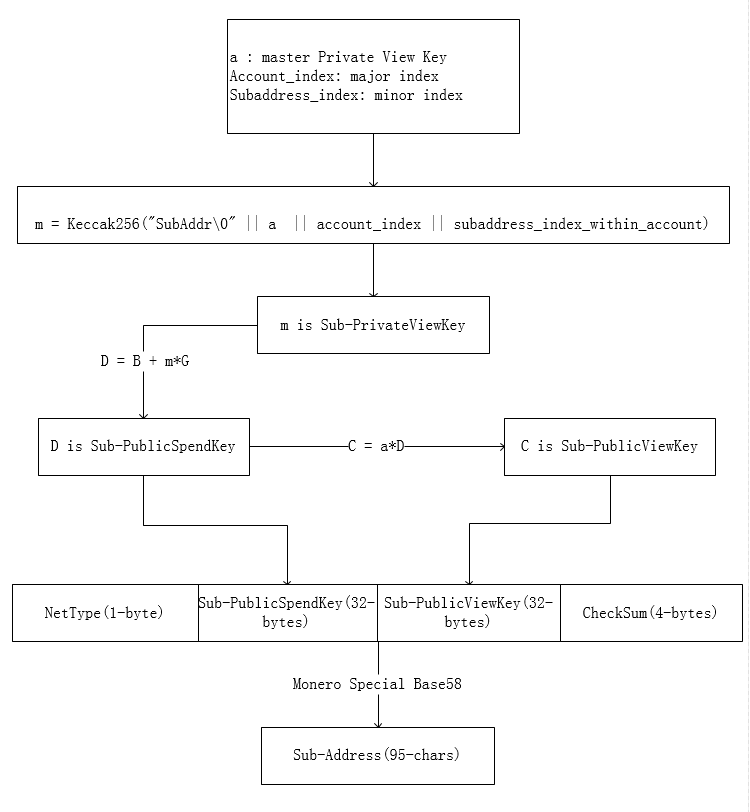
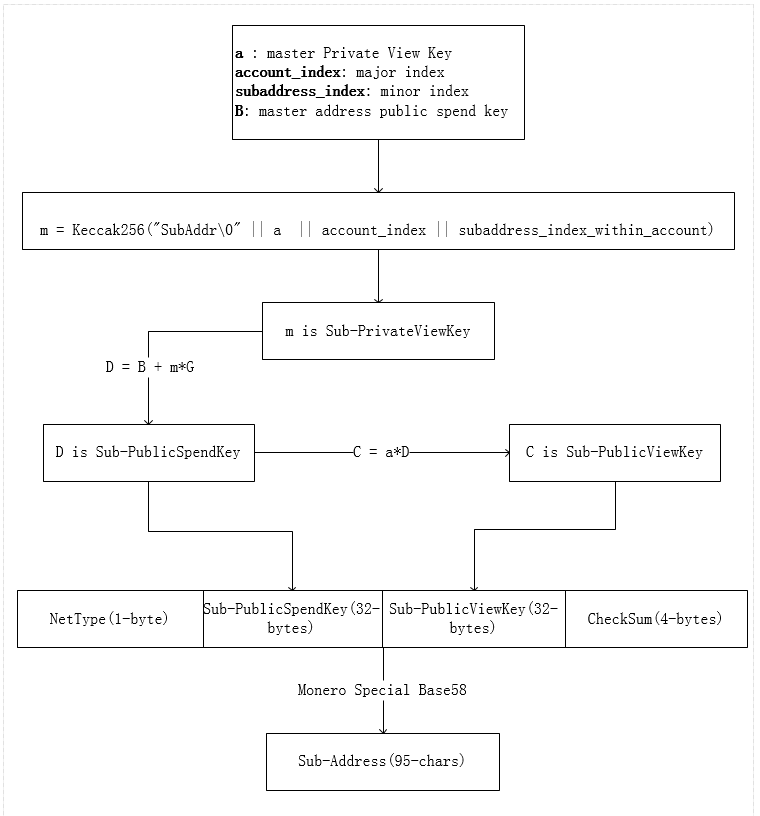
添加 XMR 交易所对接方案

diff --git a/Monero/6_XMR交易所对接方案.md b/Monero/6_XMR交易所对接方案.md
@@ -1,0 +1,195 @@
+# 交易所对接 XMR 
+
+
+
+## 充币
+
+### 用户充币地址生成
+
+使用 subaddress 即可
+
+
+
+### 充币数据监测
+
+> monero-wallet-rpc 的API文档:   https://web.getmonero.org/resources/developer-guides/wallet-rpc.html
+
+
+
+ **步骤1** :   使用  `monero-wallet-cli`  的以下选项生成 `incoming-only`钱包:
+
+```
+--generate-from-view-key arg   //Generate incoming-only wallet from view key
+```
+
+
+
+观察钱包生成过程
+
+```
+monero-wallet-cli --stagenet  --daemon-address monero-stagenet.exan.tech:38081  --trusted-daemon --generate-from-view-key=/root/.bitmonero/stagenet/wallet_files/yqq_incoming_only  --restore-height 536084  
+```
+
+
+
+![](./img/generate_incoming_only_wallet.png)
+
+
+
+
+
+**步骤2**: 使用 `monero-wallet-rpc` 导入上一步生成的`Private View Key` 作为 `incoming-only` 钱包.   这样就可以RPC接口获取钱包的入账数据.
+
+- 启动  monero-wallet-rpc  ,  注意端口不要学wiki页面中把端口设置为  `18082`(主网) 或 `38082`(测试网)(默认是ZMQ的RPC端口)
+
+  ```
+  monero-wallet-rpc --stagenet --daemon-address  monero-stagenet.exan.tech:38081 --trusted-daemon --wallet-file=/root/.bitmonero/stagenet/wallet_files/yqq_incoming_only --confirm-external-bind --rpc-bind-ip 0.0.0.0 --rpc-bind-port 38089  --password 123456 --disable-rpc-login --detach
+  ```
+
+
+![](./img/start_wallet_rpc_wtih_incoming_only_wallet.png)
+
+
+
+
+
+- 优雅停止
+
+  ```
+  curl -X POST http://127.0.0.1:38089/json_rpc -d '{"jsonrpc":"2.0","id":"0","method":"stop_wallet"}' -H 'Content-Type: application/json' 
+  ```
+
+
+
+- **incoming_transfers**   获取钱包的所有入账交易信息,  (需要先调用  `auto_refresh` 让rpc进程自动扫描, 经过实践, 其实不调用也用 `auto_refresh`也可以, 有入账交易也会扫描到)
+
+  Return a list of incoming transfers to the wallet.
+
+  Inputs:
+
+  - *transfer_type* - string; "all": all the transfers, "available": only transfers which are not yet spent, OR "unavailable": only transfers which are already spent.
+  - *account_index* - unsigned int; (Optional) Return transfers for this account. (defaults to 0)
+  - *subaddr_indices* - array of unsigned int; (Optional) Return transfers sent to these subaddresses.
+  - *verbose* - boolean; (Optional) Enable verbose output, return key image if true.
+
+  Outputs:
+
+  - transfers\- list of:
+    - *amount* - unsigned int; Amount of this transfer.
+    - *global_index* - unsigned int; Mostly internal use, can be ignored by most users.
+    - *key_image* - string; Key image for the incoming transfer's unspent output (empty unless verbose is true).
+    - *spent* - boolean; Indicates if this transfer has been spent.
+    - *subaddr_index* - unsigned int; Subaddress index for incoming transfer.
+    - *tx_hash* - string; Several incoming transfers may share the same hash if they were in the same transaction.
+    - *tx_size* - unsigned int; Size of transaction in bytes.
+
+
+
+如果  result 为空   则为   `"result":{}`
+
+```
+[root@demo xmr]# curl -X POST https://192.168.10.160:38089/json_rpc -d '{"jsonrpc":"2.0","id":"0","method":"incoming_transfers","params":{"transfer_type":"all"}}' -H 'Content-Type: application/json' --insecure
+
+
+{
+  "id": "0",
+  "jsonrpc": "2.0",
+  "result": {
+    "transfers": [{
+      "amount": 10000000000000,
+      "block_height": 536084,
+      "frozen": false,
+      "global_index": 2329106,
[1 lines of base64/hex data omitted]
+      "spent": true,
+      "subaddr_index": {
+        "major": 0,
+        "minor": 0
+      },
[1 lines of base64/hex data omitted]
+      "unlocked": true
+    },{
+      "amount": 10000000000000,
+      "block_height": 538496,
+      "frozen": false,
+      "global_index": 2359202,
[1 lines of base64/hex data omitted]
+      "spent": false,
+      "subaddr_index": {
+        "major": 0,
+        "minor": 2
+      },
[1 lines of base64/hex data omitted]
+      "unlocked": true
+    }]
+  }
+}
+```
+
+
+
+根据返回的数据, 并没有直接得到 subaddress, 只有  `major` 和 `minor`的信息,   有以下2种方式可以获得subaddress的地址字符串信息
+
+- 根据**主地址**的 `Private View Key`和`Public Spend Key`(public spend key 可直接由master standard address得到)推导出  `( major, minor ) `的地址(推导过程可以看 [2_XMR的技术概念.md](2_XMR的技术概念.md) 和 [3_XMR地址生成.md](3_XMR地址生成.md))
+
+- 根据  `get_address` RPC 接口可以通过   `major`和 `minor` 获取地址
+
+  **get_address**
+
+  Return the wallet's addresses for an account. Optionally filter for specific set of subaddresses.
+
+  Alias: *getaddress*.
+
+  Inputs:
+
+  - *account_index* - unsigned int; Return subaddresses for this account.
+  - *address_index* - array of unsigned int; (Optional) List of subaddresses to return from an account.
+
+  Outputs:
+
+  - *address* - string; The 95-character hex address string of the monero-wallet-rpc in session.
+
+  - addresses
+
+    array of addresses informations
+
+    - *address* string; The 95-character hex (sub)address string.
+    - *label* string; Label of the (sub)address
+    - *address_index* unsigned int; index of the subaddress
+    - *used* boolean; states if the (sub)address has already received funds
+
+  ```
+  [root@demo xmr]# curl -X POST http://127.0.0.1:38089/json_rpc -d '{"jsonrpc":"2.0","id":"0","method":"get_address","params":{"account_index":0,"address_index":[2]}}' -H 'Content-Type: application/json'
+  
+  
+  {
+    "id": "0",
+    "jsonrpc": "2.0",
+    "result": {
[1 lines of base64/hex data omitted]
+      "addresses": [{
[1 lines of base64/hex data omitted]
+        "address_index": 2,
+        "label": "",
+        "used": true
+      }]
+    }
+  }
+  ```
+
+  
+
+## 提币
+
+TODO
+
+
+
+
+
+
+
+## 归集
+
+使用`SubAddress` 不需要进行归集
+
